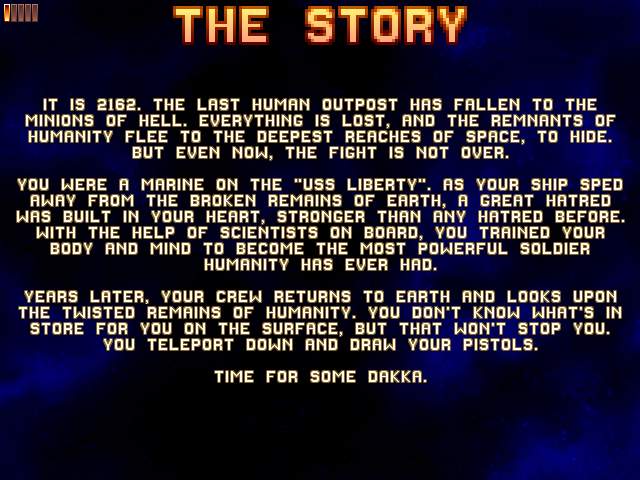
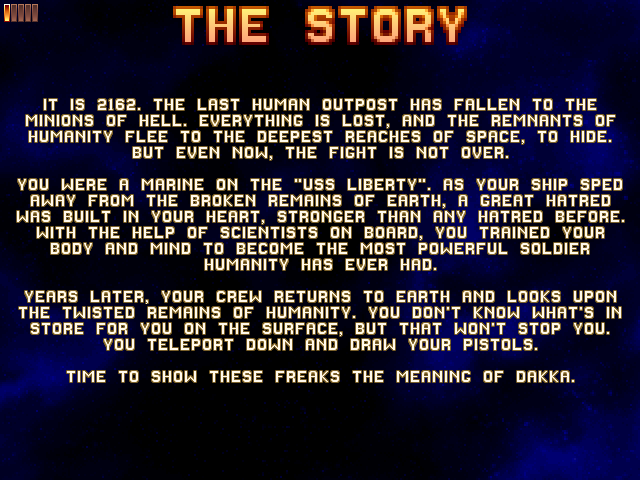
Reworded the final line of the 'story'

Changed region(s): [[0.0938, 0.75, 0.9062, 0.8125]]

diff --git a/README.md b/README.md
@@ -16,7 +16,7 @@ YEARS LATER, YOUR CREW RETURNS TO EARTH AND LOOKS UPON THE TWISTED REMAINS OF
 HUMANITY. YOU DON'T KNOW WHAT'S IN STORE FOR YOU ON THE SURFACE, BUT THAT WON'T
 STOP YOU. YOU TELEPORT DOWN AND DRAW YOUR PISTOLS.
 
-TIME FOR SOME DAKKA.
+TIME TO SHOW THESE FREAKS THE MEANING OF DAKKA.
 ```
 
 It's a mod with guns. The guns make everything easy - not Russian Overkill levels
